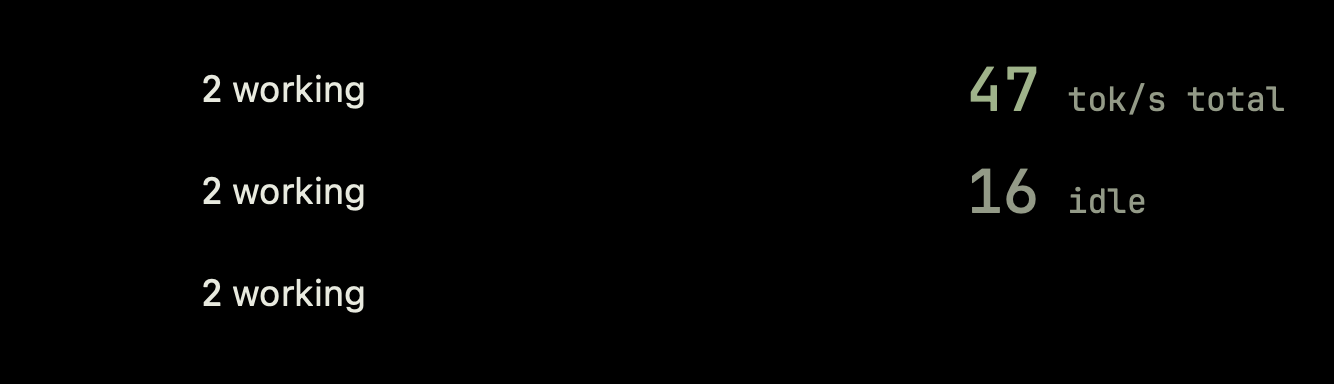
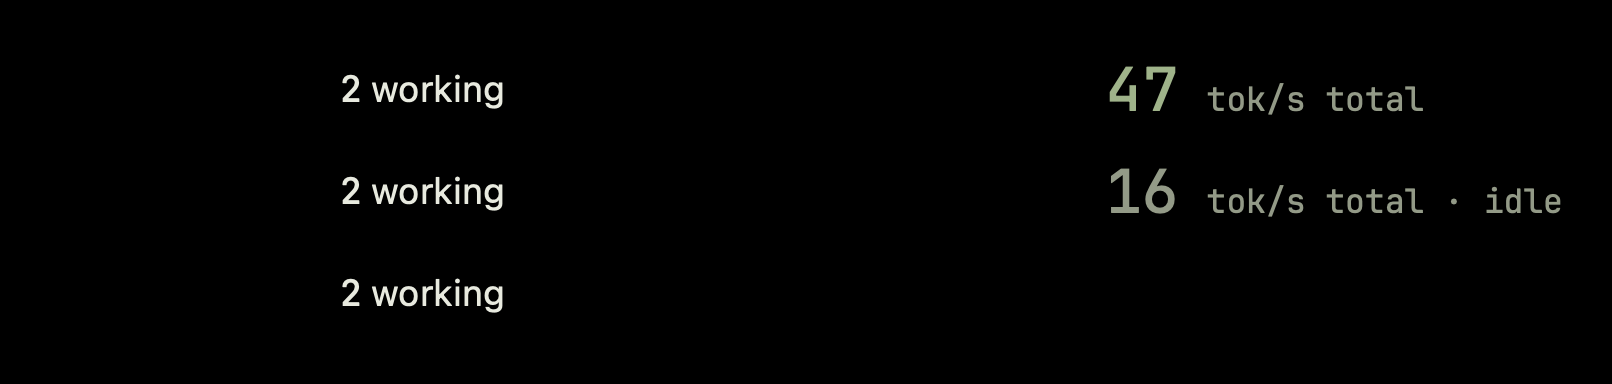
fleet: the idle speed keeps its rate unit, and measuring never pins the fallback font
QA round 1, major: with `current` null and a last measured value the closed row
read "16 idle" and dropped the rate unit - the scenario that motivated the change
- while the web page it mirrors keeps "tok/s · idle".

- `closedSpeedUnit(number:total:idle:)` appends " · idle" to whichever rate unit
  fits (" tok/s total · idle" -> " tok/s · idle" -> " t/s · idle"), and
  `closedRightReading` passes the idle flag through instead of substituting a bare
  " idle". The reading stays dimmed; the number and the fit rule are unchanged.
- Fixed a latent defect the new decode test exposed: `FleetType.monoWidth` used to
  call `registerBundledFonts()`, whose result is memoised once per process, so a
  measurement taken before any view drew registered from the wrong bundle, failed,
  and pinned the system fallback for the whole process - the fleet mono face then
  never registered for anything. The measurement is now side-effect free, and the
  closed indicator registers the bundled faces before it measures and draws.
  Evidence: FleetTypeTests alone passed (2 tests); with the decode tests first it
  failed 6 assertions; both orders now pass.
- docs/fleet-closed-row.png regenerated: "2 working ... 47 tok/s total",
  "2 working ... 16 tok/s total · idle" (dim), "2 working" alone.

Proof: xcodebuild build -scheme boringNotch -> BUILD SUCCEEDED; xcodebuild test
-scheme boringNotchTests -> Executed 188 tests, with 0 failures. Live feed through
[…]

diff --git a/boringNotchTests/FleetFormatTests.swift b/boringNotchTests/FleetFormatTests.swift
@@ -624,10 +624,10 @@ final class FleetFormatTests: XCTestCase {
         XCTAssertEqual(reported.unit, " tok/s total")
         XCTAssertFalse(reported.dim)
 
-        // Busy with no current speed but a last value the API measured: the number dims and reads
-        // " idle" - the running job count stays hidden. The numbers are the live activity feed's
-        // speed block of 2026-10-14T07:24Z, where lastValue 16.273848069517346 is the speed the API
-        // itself last measured (the trend still holds only nulls from the idle window).
+        // Busy with no current speed but a last value the API measured: the number dims, keeps its
+        // rate unit and marks itself idle - the running job count stays hidden. The numbers are the
+        // live activity feed's speed block of 2026-10-14T07:24Z, where lastValue 16.273848069517346 is
+        // the speed the API itself last measured (the trend still holds only nulls from the idle window).
         let lastValueIdle = try XCTUnwrap(
             FleetFormat.closedRightReading(
                 speed: FleetSpeed(current: nil, lastAt: "2026-10-13T23:41:59.737Z",
@@ -636,7 +636,7 @@ final class FleetFormatTests: XCTestCase {
                 jobs: 1, total: true),
             "a last value the API measured is a reading")
         XCTAssertEqual(lastValueIdle.number, "16")
-        XCTAssertEqual(lastValueIdle.unit, " idle")
+        XCTAssertEqual(lastValueIdle.unit, " tok/s total · idle")
         XCTAssertTrue(lastValueIdle.dim)
 
         // The API's lastValue outranks an older point still sitting in the trend.
@@ -647,7 +647,7 @@ final class FleetFormatTests: XCTestCase {
                 jobs: 0, total: false),
             "lastValue is a reading")
         XCTAssertEqual(withLastValue.number, "16")
-        XCTAssertEqual(withLastValue.unit, " idle")
+        XCTAssertEqual(withLastValue.unit, " tok/s · idle")
         XCTAssertTrue(withLastValue.dim)
         let trendOnly = try XCTUnwrap(
             FleetFormat.closedRightReading(
@@ -696,6 +696,16 @@ final class FleetFormatTests: XCTestCase {
         // Long enough that even " tok/s" does not fit beside the number: the short form wins.
         XCTAssertEqual(FleetFormat.closedSpeedUnit(number: "1234567890", total: true), " t/s")
         XCTAssertEqual(FleetFormat.closedSpeedUnit(number: "1234567890", total: false), " t/s")
+        // The idle reading keeps the ladder and appends " · idle" to whichever rate unit fits.
+        XCTAssertEqual(FleetFormat.closedSpeedUnit(number: "47", total: true, idle: true),
+                       " tok/s total · idle")
+        XCTAssertEqual(FleetFormat.closedSpeedUnit(number: "1234567890", total: true, idle: true),
+                       " t/s · idle")
+        // Whatever the font, the idle unit for "16" keeps its rate unit and marks itself idle.
+        let idleUnit = FleetFormat.closedSpeedUnit(number: "16", total: true, idle: true)
+        XCTAssertTrue(idleUnit.contains("/s"), "the idle unit keeps its rate unit, got \(idleUnit)")
+        XCTAssertTrue(idleUnit.hasSuffix(" · idle"),
+                      "the idle unit marks itself idle, got \(idleUnit)")
 
         // The fit helper measures the same pair the row renders.
         XCTAssertTrue(FleetFormat.closedSpeedFits(number: "47", unit: " tok/s total"))

diff --git a/boringNotch/components/Fleet/FleetFormat.swift b/boringNotch/components/Fleet/FleetFormat.swift
@@ -256,13 +256,11 @@ enum FleetFormat {
         critical > 0 || down > 0 ? status(critical, down: down) : nil
     }
 
-    /// The collapsed notch row's right side: the fleet's decode speed while it reports one (the current
-    /// reading, else the last measured value dimmed and followed by " idle"); otherwise, while jobs run,
-    /// their count ("2 jobs" - the case's cloud jobs report no tok/s at all); otherwise nil, so the row
-    /// shows its working count alone and never invents a number.
+    /// The collapsed notch row's right side: a speed reading (number and unit) or a job count (number and
+    /// noun). A speed reading is the last measured value dimmed while nothing writes, followed by
+    /// "tok/s total · idle" / "tok/s · idle" / "t/s · idle", never a bare " idle" (see `closedRightReading`).
     /// The unit reads as a total only for a number the API reported as one (see `tokenRateUnit(total:)`)
-    /// and only while it fits the row (see `closedSpeedUnit(number:total:)`); the job-count case and the
-    /// " idle" case are unchanged.
+    /// and only while it fits the row (see `closedSpeedUnit(number:total:idle:)`).
     struct FleetClosedRightReading: Equatable {
         var number: String
         var unit: String
@@ -273,7 +271,7 @@ enum FleetFormat {
         if let speed, speed.current != nil || speedLastValue(speed) != nil {
             let number = speedNumberText(speed)
             return FleetClosedRightReading(number: number,
-                                           unit: speedIsIdle(speed) ? " idle" : closedSpeedUnit(number: number, total: total),
+                                           unit: closedSpeedUnit(number: number, total: total, idle: speedIsIdle(speed)),
                                            dim: speedIsIdle(speed))
         }
         if jobs > 0 {
@@ -396,10 +394,14 @@ enum FleetFormat {
     }
 
     /// The closed row's speed unit: the first candidate that fits the reading by `closedSpeedFits`,
-    /// else the shortest one. The reading must stay inside the closed row's text budget so it neither
-    /// truncates nor widens the notch.
-    static func closedSpeedUnit(number: String, total: Bool) -> String {
-        let candidates = total ? [" tok/s total", " tok/s", " t/s"] : [" tok/s", " t/s"]
+    /// else the shortest one. While nothing writes (`idle`) the reading keeps its rate unit: the
+    /// candidates are the same rate units with " · idle" appended ("tok/s · idle", the web page's form).
+    /// When the row runs out of room the ladder drops "total" first, then shortens "tok/s" to "t/s";
+    /// the idle marker stays on every candidate. The reading must stay inside the closed row's text
+    /// budget so it neither truncates nor widens the notch.
+    static func closedSpeedUnit(number: String, total: Bool, idle: Bool = false) -> String {
+        let units = total ? [" tok/s total", " tok/s", " t/s"] : [" tok/s", " t/s"]
+        let candidates = idle ? units.map { $0 + " · idle" } : units
         return candidates.first { closedSpeedFits(number: number, unit: $0) } ?? candidates[candidates.count - 1]
     }
 

diff --git a/boringNotch/components/Fleet/FleetType.swift b/boringNotch/components/Fleet/FleetType.swift
@@ -58,15 +58,13 @@ enum FleetType {
     }
 
     /// The rendered width of `text` at `size`: the closed row measures its speed reading against
-    /// this, so the fit rule matches what the view renders. Same face as `mono(size:weight:)`.
+    /// this, so the fit rule matches what the view renders. The width comes from the bundled
+    /// JetBrains face when it is registered and from the system monospaced font otherwise. A
+    /// measurement never registers the faces or logs the fallback; the views own that through
+    /// `mono(size:)`, so measuring first can never pin the fallback for a later registration.
     static func monoWidth(text: String, size: CGFloat, weight: Weight = .regular) -> CGFloat {
-        let font: NSFont
-        if registerBundledFonts(), let face = NSFont(name: postScriptName(for: weight), size: size) {
-            font = face
-        } else {
-            logFallbackOnce()
-            font = NSFont.monospacedSystemFont(ofSize: size, weight: nsFontWeight(weight))
-        }
+        let font = NSFont(name: postScriptName(for: weight), size: size)
+            ?? NSFont.monospacedSystemFont(ofSize: size, weight: nsFontWeight(weight))
         return (text as NSString).size(withAttributes: [.font: font]).width
     }
 

diff --git a/boringNotch/components/Fleet/FleetClosedIndicator.swift b/boringNotch/components/Fleet/FleetClosedIndicator.swift
@@ -22,6 +22,9 @@ struct FleetClosedIndicator: View {
 
     var body: some View {
         if visible {
+            // The closed row's fit rule measures the speed reading with the bundled mono face.
+            // Register here so the width helper doesn't pin the fallback path (memoised, free after first call).
+            let _ = FleetType.registerBundledFonts()
             let model = store.panelModel
             // Both sides take the wider text's width so the camera gap sits on the physical notch's
             // centre; unequal sides would push the gap off-centre and the notch would cover text.

diff --git a/boringNotchTests/FleetDecodingTests.swift b/boringNotchTests/FleetDecodingTests.swift
@@ -434,7 +434,7 @@ final class FleetDecodingTests: XCTestCase {
             FleetFormat.closedRightReading(speed: speed, jobs: 1, total: true),
             "a last value the API measured is a reading")
         XCTAssertEqual(reading.number, "16")
-        XCTAssertEqual(reading.unit, " idle")
+        XCTAssertEqual(reading.unit, " tok/s total · idle")
         XCTAssertTrue(reading.dim)
     }
 
